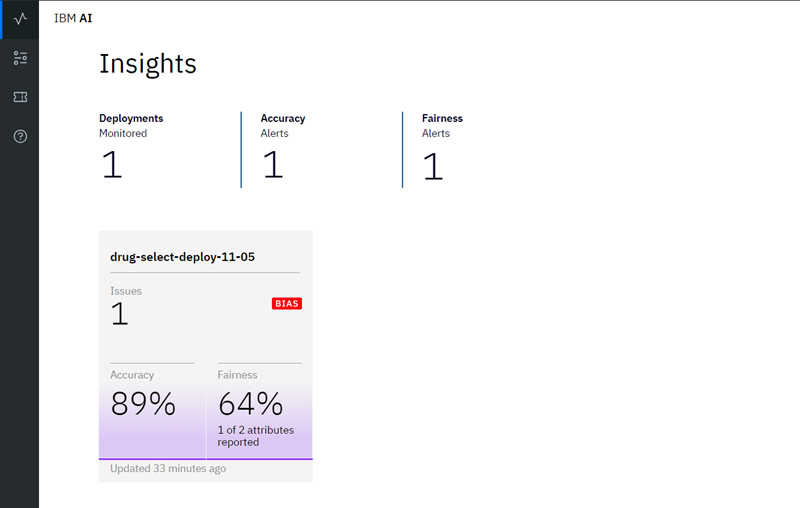
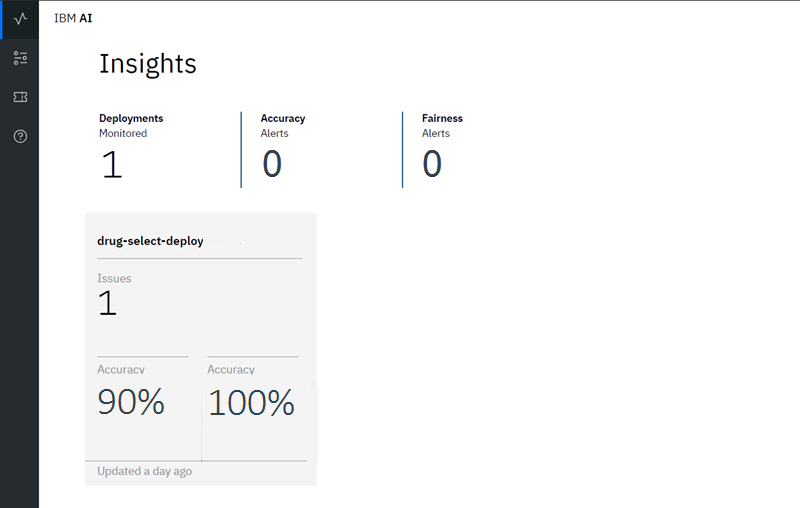
Revert bias data content

diff --git a/getting-started.md b/getting-started.md
@@ -10,7 +10,7 @@ takeaways:
 
 copyright:
   years: 2018
-lastupdated: "2018-11-06"
+lastupdated: "2018-11-04"
 
 ---
 
@@ -250,13 +250,13 @@ Now that the machine learning model has been deployed, you can configure {{site.
 
 - You may now choose which features to monitor for Fairness. In this example, we'll monitor the **AGE** and **SEX** features. Click on the **AGE** and **SEX** tiles, and click **Next**.
 
-- {{site.data.keyword.aios_short}} works to detect bias against a protected group in comparison to a reference group. For the current **AGE** example, add the values "50-64" to the **Reference group**, and the values "0-25", "26-49", and "65-99" to the **Protected group**, and click **Next**:
+- {{site.data.keyword.aios_short}} works to detect bias against a protected group in comparison to a reference group. For the current **AGE** example, add the values "49-59" and "60-75" to the **Reference group**, and the values "0-48" and "76-99" to the **Protected group**, and click **Next**:
 
   ![Age Groups](images/age_groups1.png)
 
-  The model will be flagged as biased if the drug prediction ratios for the protected group age ranges differ from the ratios for the reference group age ranges. For example, if the model finds that drug A was predicted 30% of the time for patients aged 50-64, but was predicted only 5% of the time for patients aged 65-99, it is biased against the protected group.
+  The model will be flagged as biased if the drug prediction ratios for the protected group age ranges differ from the ratios for the reference group age ranges. For example, if the model finds that drug A was predicted 30% of the time for patients aged 49-59, but was predicted only 5% of the time for patients aged 76-99, it is biased against the protected group.
 
-- You may now assign a fairness threshold for **AGE**. You will see an alert on your operations dashboard if the Fairness rating falls below this threshold. Set the threshold at 90%, and click **Next**.
+- You may now assign a fairness threshold for **AGE**. You will see an alert on your operations dashboard if the Fairness rating falls below this threshold. Click **Next** to leave it set at the default of 80%.
 
 - For the **SEX** feature, add the value "M" (male) to the **Reference group**, and the value "F" (female) to the **Protected group**, and click **Next**:
 
@@ -264,15 +264,15 @@ Now that the machine learning model has been deployed, you can configure {{site.
 
   As with **AGE**, the model will be flagged as biased for **SEX** if the drug prediction ratios for the protected group differ from the ratios for the reference group. So if the model predicts drug X for male patients 60% of the time, and for female patients 20% of the time, it is biased.
 
-- Set the threshold for **SEX** at 90%, and click **Next**.
+- Click **Next** to leave the threshold for **SEX** at the default of 80%.
 
-- You will now select favorable and unfavorable prediction values from the payload logging (PostgreSQL) database. {{site.data.keyword.aios_short}} will automatically detect which column in the payload logging data contains the prediction values; those values are "drugA", "drugB", "drugC", "drugX", and "drugY". Add "drugC" as Favorable, and the others as Unfavorable, to the form and click **Next**:
+- You will now select favorable and unfavorable prediction values from the payload logging (PostgreSQL) database. {{site.data.keyword.aios_short}} will automatically detect which column in the payload logging data contains the prediction values;  those values are 0-4 (each number corresponding to one of five drugs the model predicts). Add these values to the form and click **Next**:
 
   ![Positive and negative values](images/pos_and_neg1.png)
 
-- Use the slider to adjust the minimum sample size to 50, then click  **Next**. Review your choices, and then click **Save**.
+- Use the slider to adjust the minimum sample size to 100, then click  **Next**. Review your choices, and then click **Save**.
 
-  For purposes of this tutorial, the minimum sample size has been set to 50. Normally, a larger sample size is recommended to ensure the sample size is not too small to skew results.
+  For purposes of this tutorial, the minimum sample size has been set to 100. Normally, a larger sample size is recommended to ensure the sample size is not too small to skew results.
   {: note}
 
 ### Configure accuracy monitoring
@@ -285,7 +285,7 @@ Now that the machine learning model has been deployed, you can configure {{site.
 
   ![Multiclass](images/multiclass.png)
 
-- Next, set the accuracy threshold to 90% and click **Next**. Use the slider to adjust the minimum sample size to 40, then click  **Next**.
+- Next, set the accuracy threshold. Click **Next** to leave it at the default 80%. Use the slider to adjust the minimum sample size to 40, then click  **Next**.
 
   For purposes of this tutorial, the minimum sample size has been set to 40. Normally, a larger sample size is recommended to ensure the sample size is not too small to skew results.
   {: note}
@@ -359,7 +359,7 @@ Now that the machine learning model has been deployed, you can configure {{site.
 
 ## Provide a set of sample data to your model
 
-- When configuring {{site.data.keyword.aios_short}}, you set the threshold for fairness and accuracy monitoring to 50 requests. No data will appear in the dashboard until this threshold is met. You can generate these requests all at once by feeding the training data back to the model for scoring.
+- When configuring {{site.data.keyword.aios_short}}, you set the threshold for fairness and accuracy monitoring to 100 requests. No data will appear in the dashboard until this threshold is met. You can generate these requests all at once by feeding the training data back to the model for scoring.
 
 - To do this, download the [drug_train_data.json](https://raw.githubusercontent.com/watson-developer-cloud/doc-tutorial-downloads/master/ai-openscale/drug_train_data.json) file.
 
@@ -391,8 +391,6 @@ Now that the machine learning model has been deployed, you can configure {{site.
 
   This will retrain and provide feedback data to your model.
 
-- Finally, [re-run the sample data set](getting-started.html#provide-a-set-of-sample-data-to-your-model) against the updated model.
-
 ## Viewing results
 
 ### View insights for your deployment
@@ -401,7 +399,7 @@ Using the [AI OpenScale dashboard ![External link icon](../../icons/launch-glyph
 
   ![Insights](images/insight-dash-tab.png)
 
-The Insights page provides an overview of metrics for your deployed models. You can easily see alerts for Fairness or Accuracy metrics that have fallen below the 90% threshold. The data and monitor settings used in this tutorial create Accuracy and Fairness alerts similar to the ones shown here.
+The Insights page provides an overview of metrics for your deployed models. You can easily see alerts for Fairness or Accuracy metrics that have fallen below the 80% threshold. In this example no data is below the threshold.
 
   ![Insight overview](images/insight-overview.png)
 
@@ -414,7 +412,7 @@ Select a deployment by clicking the tile on the Insights page. The monitoring da
 
   ![Monitor data](images/insight-monitor-data.png)
 
-Now, you can review the charts for the data you monitored. For this example, you can use the **Feature** drop-down to select either "AGE" or "SEX", in order to see details about the monitored data. This helps pinpoint biased metrics, so that you can adjust and redeploy your model accordingly.
+Now, you can review the charts for the data you monitored. For this example, you can use the **Feature** drop-down to select either "AGE" or "SEX", in order to see details about the monitored data.
 
   ![Insight overview](images/insight-review-charts.png)
 
